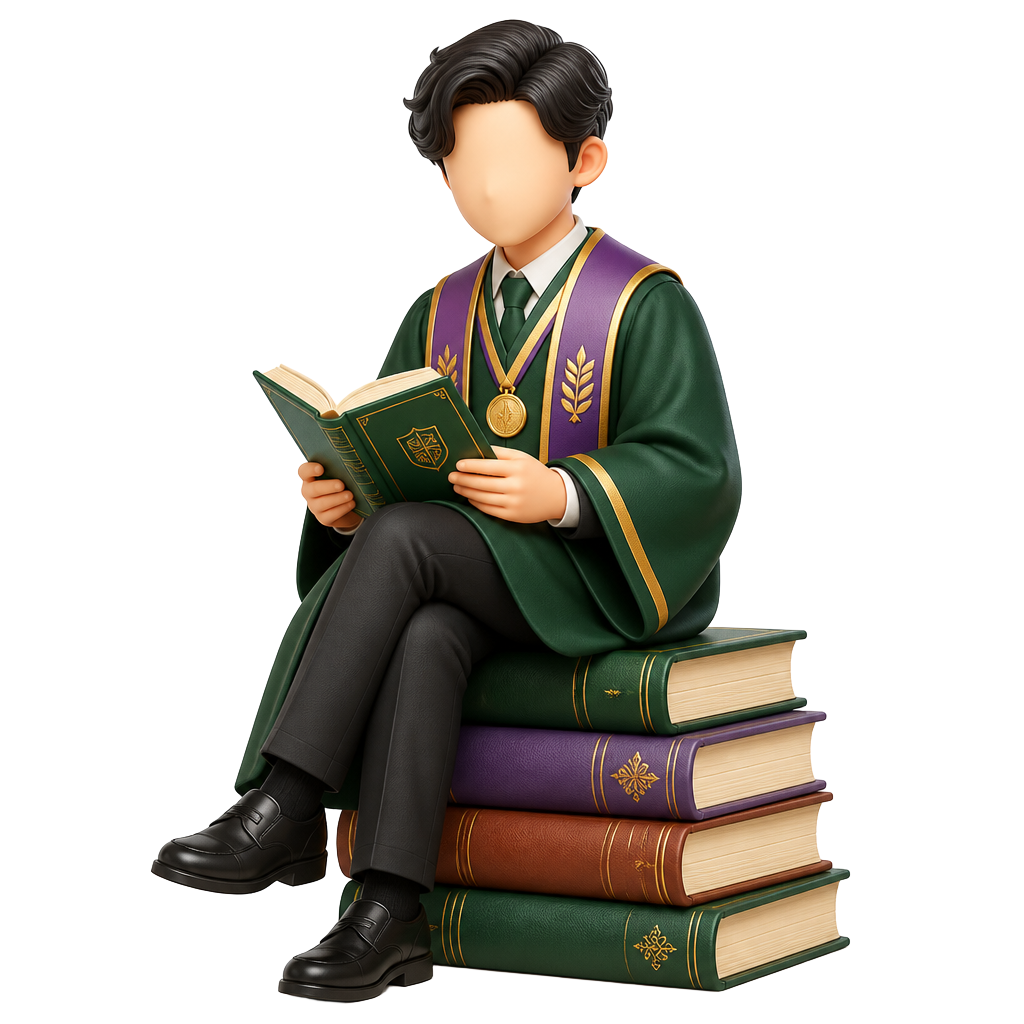
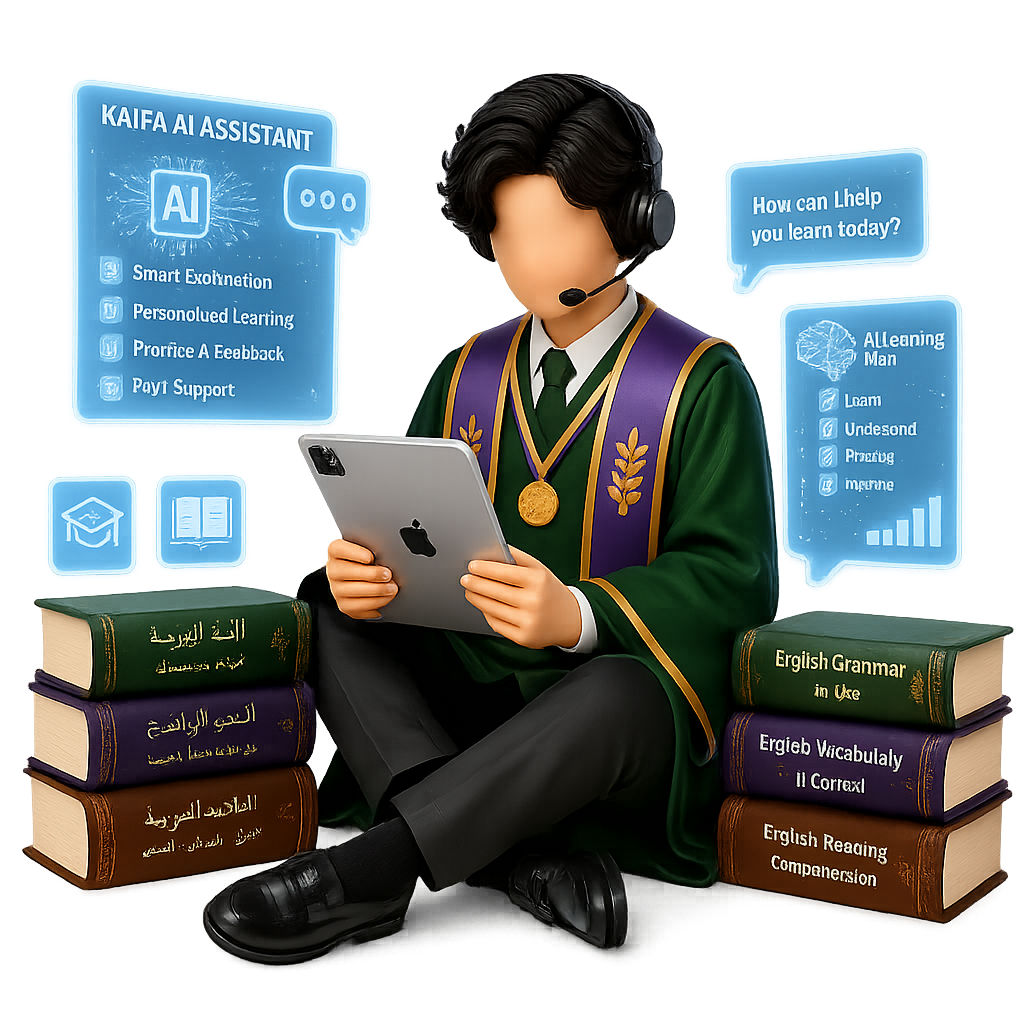
fixed:add price

diff --git a/kaifa-fe/src/components/landing/Hero.tsx b/kaifa-fe/src/components/landing/Hero.tsx
@@ -2,12 +2,32 @@
 
 import Image from 'next/image';
 import { motion } from 'motion/react';
-import { ArrowRight, Bot, GraduationCap, Play, ScrollText, ShieldCheck, Sparkles } from 'lucide-react';
+import {
+  ArrowRight,
+  Bot,
+  GraduationCap,
+  Play,
+  ScrollText,
+  ShieldCheck,
+  Sparkles,
+} from 'lucide-react';
 import { CtaButton, Glow, Reveal } from './primitives';
 
 const chips = [
-  { title: 'اللغة العربية', sub: 'Bahasa Arab', className: 'left-0 top-6 sm:left-2', tone: 'text-primary', delay: 0.1 },
-  { title: 'English', sub: 'Language', className: '-left-2 top-32 sm:left-0', tone: 'text-secondary', delay: 0.25 },
+  {
+    title: 'اللغة العربية',
+    sub: 'Bahasa Arab',
+    className: 'left-0 top-6 sm:left-2',
+    tone: 'text-primary',
+    delay: 0.1,
+  },
+  {
+    title: 'English',
+    sub: 'Language',
+    className: '-left-2 top-32 sm:left-0',
+    tone: 'text-secondary',
+    delay: 0.25,
+  },
 ];
 
 const trust = [
@@ -18,8 +38,14 @@ const trust = [
 
 export function Hero() {
   return (
-    <section id="top" className="relative overflow-hidden px-4 pt-28 pb-16 sm:px-6 lg:pt-32 lg:pb-24">
-      <div aria-hidden className="pointer-events-none absolute inset-0 bg-[image:var(--gradient-mesh)]" />
+    <section
+      id="top"
+      className="relative overflow-hidden px-4 pt-28 pb-16 sm:px-6 lg:pt-32 lg:pb-24"
+    >
+      <div
+        aria-hidden
+        className="pointer-events-none absolute inset-0 bg-[image:var(--gradient-mesh)]"
+      />
       <Glow className="bg-brand-blue/25 top-[-8%] left-[-10%] h-[420px] w-[420px]" />
       <Glow className="bg-brand-violet/25 top-[4%] right-[-8%] h-[460px] w-[460px]" />
 
@@ -34,14 +60,14 @@ export function Hero() {
             </span>
           </Reveal>
 
-          <h1 className="font-display text-ink mt-6 text-balance text-[38px] leading-[1.06] font-extrabold tracking-[-0.045em] sm:text-[52px] lg:text-[58px]">
+          <h1 className="font-display text-ink mt-6 text-[38px] leading-[1.06] font-extrabold tracking-[-0.045em] text-balance sm:text-[52px] lg:text-[58px]">
             <motion.span
               initial={{ opacity: 0, y: 26, filter: 'blur(12px)' }}
               animate={{ opacity: 1, y: 0, filter: 'blur(0px)' }}
               transition={{ duration: 0.9, ease: [0.22, 1, 0.36, 1] }}
               className="text-primary block"
             >
-              Belajar <span dir="rtl">العربية</span>
+              Belajar <span dir="rtl">Bahasa Arab</span>
             </motion.span>
             <motion.span
               initial={{ opacity: 0, y: 26, filter: 'blur(12px)' }}
@@ -57,21 +83,24 @@ export function Hero() {
               transition={{ duration: 0.9, delay: 0.16, ease: [0.22, 1, 0.36, 1] }}
               className="block"
             >
-              <span className="text-secondary">Interaktif</span> <span className="text-accent">dan Bermakna</span>
+              <span className="text-secondary">Interaktif</span>{' '}
+              <span className="text-accent">dan Bermakna</span>
             </motion.span>
           </h1>
 
           <Reveal delay={0.22}>
-            <p className="text-ink-muted mt-6 max-w-xl text-pretty text-[16.5px] leading-[1.75]">
-              Kaifa adalah platform pembelajaran pendamping berbasis AI untuk pelajar Muslim Indonesia
-              (Kelas VII–XII) agar belajar bahasa lebih efektif dan sesuai nilai-nilai Islam.
+            <p className="text-ink-muted mt-6 max-w-xl text-[16.5px] leading-[1.75] text-pretty">
+              Kaifa adalah platform pembelajaran pendamping berbasis AI untuk pelajar Muslim
+              Indonesia (Kelas VII–XII) agar belajar bahasa lebih efektif dan sesuai nilai-nilai
+              Islam.
             </p>
           </Reveal>
 
           <Reveal delay={0.3}>
             <div className="mt-8 flex flex-col gap-3 sm:flex-row sm:items-center">
               <CtaButton href="/login">
-                Mulai Belajar Gratis <ArrowRight className="h-4 w-4 transition-transform group-hover:translate-x-0.5" />
+                Mulai Belajar{' '}
+                <ArrowRight className="h-4 w-4 transition-transform group-hover:translate-x-0.5" />
               </CtaButton>
               <CtaButton href="#how" variant="ghost">
                 <Play className="h-3.5 w-3.5 fill-current" /> Lihat Cara Kerja

diff --git a/kaifa-fe/src/components/landing/Footer.tsx b/kaifa-fe/src/components/landing/Footer.tsx
@@ -3,7 +3,10 @@ import { Logo } from './Logo';
 
 const columns = [
   { title: 'Navigasi', links: ['Beranda', 'Fitur', 'Kurikulum', 'Blog', 'FAQ'] },
-  { title: 'Perusahaan', links: ['Tentang Kami', 'Karier', 'Kontak', 'Kebijakan Privasi', 'Syarat & Ketentuan'] },
+  {
+    title: 'Perusahaan',
+    links: ['Tentang Kami', 'Karier', 'Kontak', 'Kebijakan Privasi', 'Syarat & Ketentuan'],
+  },
 ];
 
 const socials = [
@@ -22,8 +25,7 @@ export function Footer() {
             <Logo />
             <p className="text-ink-muted mt-4 max-w-xs text-[14px] leading-[1.7]">
               Platform pembelajaran pendamping berbasis AI untuk pelajar Muslim Indonesia. Belajar
-              <span dir="rtl"> العربية </span>
-              dan Bahasa Inggris lebih mudah dan bermakna.
+              Bahasa Arab dan Bahasa Inggris lebih mudah dan bermakna.
             </p>
             <div className="mt-6 flex gap-2">
               {socials.map((s) => (
@@ -41,11 +43,16 @@ export function Footer() {
 
           {columns.map((c) => (
             <nav key={c.title}>
-              <p className="text-ink text-[11.5px] font-semibold tracking-[0.16em] uppercase">{c.title}</p>
+              <p className="text-ink text-[11.5px] font-semibold tracking-[0.16em] uppercase">
+                {c.title}
+              </p>
               <ul className="mt-4 space-y-2.5">
                 {c.links.map((l) => (
                   <li key={l}>
-                    <a href="#top" className="text-ink-muted hover:text-ink text-[14px] transition-colors">
+                    <a
+                      href="#top"
+                      className="text-ink-muted hover:text-ink text-[14px] transition-colors"
+                    >
                       {l}
                     </a>
                   </li>
@@ -55,8 +62,12 @@ export function Footer() {
           ))}
 
           <div>
-            <p className="text-ink text-[11.5px] font-semibold tracking-[0.16em] uppercase">Unduh Aplikasi</p>
-            <p className="text-ink-muted mt-4 text-[14px] leading-[1.7]">Belajar di mana saja, kapan saja.</p>
+            <p className="text-ink text-[11.5px] font-semibold tracking-[0.16em] uppercase">
+              Unduh Aplikasi
+            </p>
+            <p className="text-ink-muted mt-4 text-[14px] leading-[1.7]">
+              Belajar di mana saja, kapan saja.
+            </p>
             <div className="mt-4 flex flex-col gap-2">
               {['Google Play', 'App Store'].map((store) => (
                 <a
@@ -72,8 +83,12 @@ export function Footer() {
         </div>
 
         <div className="border-rule/70 mt-14 flex flex-col items-center justify-between gap-3 border-t pt-6 sm:flex-row">
-          <p className="text-ink-muted text-[13px]">© {new Date().getFullYear()} Kaifa. Hak cipta dilindungi.</p>
-          <p className="text-ink-muted text-[13px]">Dirancang dan dibangun untuk learner di mana saja.</p>
+          <p className="text-ink-muted text-[13px]">
+            © {new Date().getFullYear()} Kaifa. Hak cipta dilindungi.
+          </p>
+          <p className="text-ink-muted text-[13px]">
+            Dirancang dan dibangun untuk learner di mana saja.
+          </p>
         </div>
       </div>
     </footer>

diff --git a/kaifa-fe/src/components/landing/FinalCta.tsx b/kaifa-fe/src/components/landing/FinalCta.tsx
@@ -19,23 +19,23 @@ export function FinalCta() {
             className="pointer-events-none absolute right-0 -bottom-6 h-40 w-auto opacity-15 sm:h-56"
           />
           <div className="relative max-w-xl">
-            <h2 className="font-display text-primary-foreground text-balance text-[30px] leading-[1.1] font-extrabold tracking-[-0.035em] sm:text-[38px]">
+            <h2 className="font-display text-primary-foreground text-[30px] leading-[1.1] font-extrabold tracking-[-0.035em] text-balance sm:text-[38px]">
               Siap memulai perjalanan belajarmu?
             </h2>
             <p className="text-primary-foreground/80 mt-4 text-[15.5px] leading-[1.75]">
-              Bergabung sekarang dan rasakan pengalaman belajar bahasa yang lebih cerdas, interaktif, dan
-              bermakna.
+              Bergabung sekarang dan rasakan pengalaman belajar bahasa yang lebih cerdas,
+              interaktif, dan bermakna.
             </p>
           </div>
           <div className="relative flex flex-col items-start gap-3 lg:items-center">
             <a
               href="/login"
-              className="group bg-accent text-accent-foreground h-13 inline-flex items-center gap-2 rounded-full px-7 text-[15.5px] font-bold shadow-[0_18px_40px_-18px_rgba(0,0,0,0.6)] transition-transform hover:-translate-y-0.5"
+              className="group bg-accent text-accent-foreground inline-flex h-13 items-center gap-2 rounded-full px-7 text-[15.5px] font-bold shadow-[0_18px_40px_-18px_rgba(0,0,0,0.6)] transition-transform hover:-translate-y-0.5"
             >
               Daftar Gratis Sekarang
               <ArrowRight className="h-4 w-4 transition-transform group-hover:translate-x-0.5" />
             </a>
-            <p className="text-primary-foreground/70 text-[12.5px]">100% gratis untuk memulai</p>
+            <p className="text-primary-foreground/70 text-[12.5px]"> </p>
           </div>
         </div>
       </Reveal>

diff --git a/kaifa-fe/src/components/landing/primitives.tsx b/kaifa-fe/src/components/landing/primitives.tsx
@@ -137,13 +137,13 @@ export function SectionHeading({
         </Reveal>
       ) : null}
       <Reveal delay={0.06}>
-        <h2 className="font-display text-ink text-balance text-[34px] leading-[1.08] font-bold tracking-[-0.03em] sm:text-[44px] lg:text-[52px]">
+        <h2 className="font-display text-ink text-[34px] leading-[1.08] font-bold tracking-[-0.03em] text-balance sm:text-[44px] lg:text-[52px]">
           {title}
         </h2>
       </Reveal>
       {desc ? (
         <Reveal delay={0.12}>
-          <p className="text-ink-muted max-w-xl text-pretty text-[16px] leading-[1.7] sm:text-[17px]">
+          <p className="text-ink-muted max-w-xl text-[16px] leading-[1.7] text-pretty sm:text-[17px]">
             {desc}
           </p>
         </Reveal>
@@ -178,7 +178,10 @@ export function GlassCard({
 
 export function Glow({ className }: { className?: string }) {
   return (
-    <div aria-hidden className={cn('pointer-events-none absolute rounded-full blur-[110px]', className)} />
+    <div
+      aria-hidden
+      className={cn('pointer-events-none absolute rounded-full blur-[110px]', className)}
+    />
   );
 }
 

diff --git a/kaifa-fe/src/components/landing/Testimonials.tsx b/kaifa-fe/src/components/landing/Testimonials.tsx
@@ -7,25 +7,25 @@ const testimonials = [
   {
     quote:
       'Kaifa membuat belajar bahasa jadi lebih terarah dan menyenangkan. AI Companion-nya benar-benar seperti guru pribadi yang selalu ada.',
-    name: 'Hamdi Mulya',
+    name: 'Alma',
     role: 'Kelas X',
-    initials: 'HM',
+    initials: 'AA',
     gradient: 'from-primary to-secondary',
   },
   {
     quote:
       'Latihan speaking-nya bikin saya lebih percaya diri. Feedback-nya langsung, jadi tahu bagian mana yang perlu diperbaiki.',
-    name: 'Nadia Ayu',
-    role: 'Kelas XI',
+    name: 'Nara',
+    role: 'Kelas XII',
     initials: 'NA',
     gradient: 'from-secondary to-brand-blue',
   },
   {
     quote:
       'Sebagai guru, dashboard progress-nya sangat membantu memantau perkembangan siswa tiap minggu.',
-    name: 'Ustadz Fikri',
-    role: 'Guru Bahasa Arab',
-    initials: 'UF',
+    name: 'Ustadz Ramdhan Ali Mantiri',
+    role: 'Founder & Pengasuh Mahir Bil Quran - Talaqqi Quran Center',
+    initials: 'RA',
     gradient: 'from-brand-blue to-primary',
   },
 ];

diff --git a/kaifa-fe/src/components/landing/StatsBar.tsx b/kaifa-fe/src/components/landing/StatsBar.tsx
@@ -4,10 +4,10 @@ import { Award, BookOpen, Star, Users } from 'lucide-react';
 import { CountUp, Stagger, StaggerItem } from './primitives';
 
 const stats = [
-  { icon: Users, value: 50, decimals: 0, suffix: 'K+', label: 'Pelajar Aktif' },
-  { icon: BookOpen, value: 1, decimals: 0, suffix: 'M+', label: 'Lesson Selesai' },
-  { icon: Award, value: 20, decimals: 0, suffix: 'K+', label: 'Pencapaian Diraih' },
-  { icon: Star, value: 4.8, decimals: 1, suffix: '/5', label: 'Rating Pengguna' },
+  { icon: Users, value: 8, decimals: 0, suffix: '', label: 'Pelajar Aktif' },
+  { icon: BookOpen, value: 16, decimals: 0, suffix: '', label: 'Lesson Selesai' },
+  { icon: Award, value: 2, decimals: 0, suffix: '', label: 'Pencapaian Diraih' },
+  { icon: Star, value: 4.7, decimals: 1, suffix: '/5', label: 'Rating Pengguna' },
 ];
 
 export function StatsBar() {

diff --git a/kaifa-fe/src/__tests__/proxy.test.ts b/kaifa-fe/src/__tests__/proxy.test.ts
@@ -62,12 +62,12 @@ describe('proxy middleware', () => {
   });
 
   it('calls next() when unauthenticated user accesses the pricing page', () => {
-    proxy(makeRequest('/harga'));
+    proxy(makeRequest('/price'));
     expect(NextResponse.next).toHaveBeenCalled();
   });
 
   it('calls next() when authenticated user accesses the pricing page', () => {
-    proxy(makeRequest('/harga', 'token123'));
+    proxy(makeRequest('/price', 'token123'));
     expect(NextResponse.next).toHaveBeenCalled();
   });
 

diff --git a/kaifa-fe/src/components/landing/Nav.tsx b/kaifa-fe/src/components/landing/Nav.tsx
@@ -11,7 +11,7 @@ const links = [
   { label: 'Beranda', href: '/#top' },
   { label: 'Fitur', href: '/#features' },
   { label: 'Kurikulum', href: '/#kurikulum' },
-  { label: 'Harga', href: '/harga' },
+  { label: 'Harga', href: '/price' },
   { label: 'Cara Kerja', href: '/#how' },
   { label: 'FAQ', href: '/#faq' },
 ];

diff --git a/kaifa-fe/src/components/landing/Features.tsx b/kaifa-fe/src/components/landing/Features.tsx
@@ -12,7 +12,7 @@ const features = [
   },
   {
     icon: Mic,
-    title: 'Speaking & Percakapan',
+    title: 'Percakapan',
     desc: 'Latihan berbicara dengan situasi nyata dan umpan balik instan dari AI.',
     tone: 'bg-[color-mix(in_oklab,var(--secondary)_12%,var(--surface))] text-secondary',
   },

diff --git a/kaifa-fe/src/proxy.ts b/kaifa-fe/src/proxy.ts
@@ -1,7 +1,7 @@
 import { NextResponse } from 'next/server';
 import type { NextRequest } from 'next/server';
 
-const PUBLIC_ROUTES = ['/', '/login', '/harga'];
+const PUBLIC_ROUTES = ['/', '/login', '/price'];
 
 export function proxy(request: NextRequest) {
   const { pathname } = request.nextUrl;

diff --git a/kaifa-fe/src/app/price/page.tsx b/kaifa-fe/src/app/price/page.tsx
@@ -16,6 +16,6 @@ export const metadata: Metadata = {
   },
 };
 
-export default function Harga() {
+export default function Price() {
   return <PricingPage />;
 }
